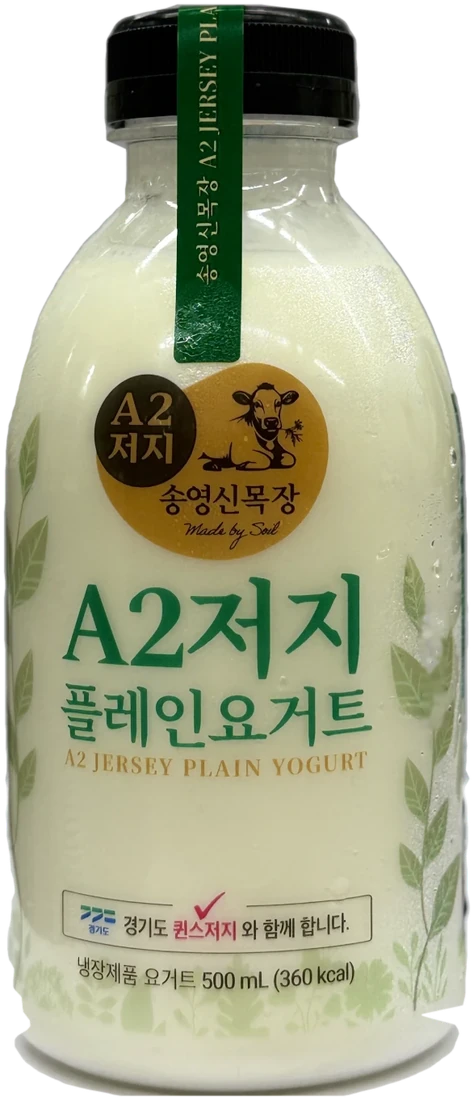
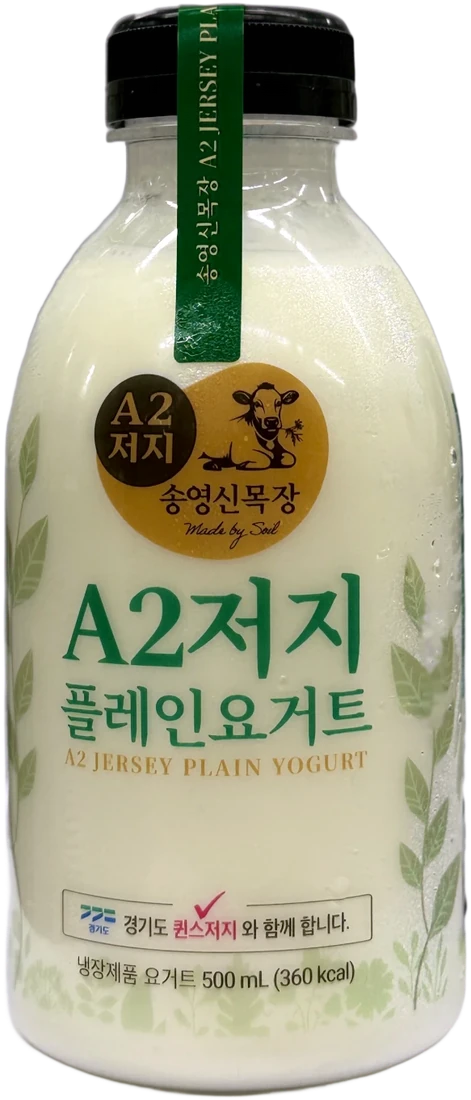
feat(제품 사진): Higgsfield 누끼로 다시 만들고, 홈 단체 사진은 그대로 둔다
회장님 지시: 메인 히어로는 두고 제품별 사진만 실물로 바꾼다.

  · 누끼: Higgsfield remove_background 알파 + 원본 픽셀(라벨 불변, 불투명 영역 차이 0)
  · 소비기한 도장 삭제, 전체 동일 색 보정(밝기 소폭·녹색기 완화)
  · hero-row-white.webp · og-default.jpg 는 main 그대로 되돌림

Claude-Session: https://claude.ai/code/session_01F2bgBTKJ7TqpFALYp1gxwG

diff --git a/AGENTS.md b/AGENTS.md
@@ -79,13 +79,13 @@ end $$;
 크게 진열하자 그대로 드러났다. 지어낸 원산지 문구(파주시)는 표시광고 문제이기도 하다.
 
 고칠 때는 AI 로 글자를 다시 그리지 않는다(또 틀린다). 벡터 로고를 얹고 글자는 글꼴로 조판한다.
-같은 날 회장님이 실제 병을 찍은 사진 넷을 보내 주셔서, 병 사진·진열 누끼·홈 단체 사진·공유 이미지를
-전부 **실물 사진**으로 바꿨다(원본: `assets/product-photos/`). 앞으로 병 사진은 이 실물 컷에서 만든다.
+같은 날 회장님이 실제 병을 찍은 사진 넷을 보내 주셔서, **제품별 사진**(상세 사진·진열 누끼·공유 카드용
+PNG)을 전부 실물 사진으로 바꿨다(원본: `assets/product-photos/`). 앞으로 병 사진은 이 실물 컷에서 만든다.
 
-- 누끼는 Higgsfield 배경제거가 실패해(네 장 모두 failed) 외곽선을 직접 계산해 땄다. 병목의 투명한
-  부분은 원본 그대로라 스튜디오 회색이 비친다.
+- 누끼는 Higgsfield `remove_background` 의 알파만 쓰고 색은 원본 픽셀 그대로 둔다(라벨이 한 픽셀도
+  안 바뀐다 — 불투명 영역 차이 0 을 확인했다). 처음 다섯 번은 failed 였고 몇 분 뒤 다시 하니 됐다.
 - 병에 찍힌 소비기한 도장(2026.10.01 / 10.10)은 지웠다 — 지난 날짜가 상품 사진에 보이면 안 된다.
-  라벨 인쇄 내용은 손대지 않았다.
-- 홈 단체 사진(`hero-row-white.webp`)은 실물 누끼 다섯을 흰 바탕(254)에 다시 배열한 것이다.
+- 색은 전체에 같은 보정만 건다(밝기 살짝, 조명의 누런 녹색기 완화). 부분 보정·AI 재생성·업스케일 금지.
+- 홈 단체 사진(`hero-row-white.webp`)과 대표 공유 이미지는 회장님 지시로 그대로 뒀다(글자만 교정한 렌더).
 
 `public/detail/*.jpg` 는 쓰이지 않는 옛 상세 이미지이며 같은 종류의 오류가 남아 있으니 되살리지 않는다.
